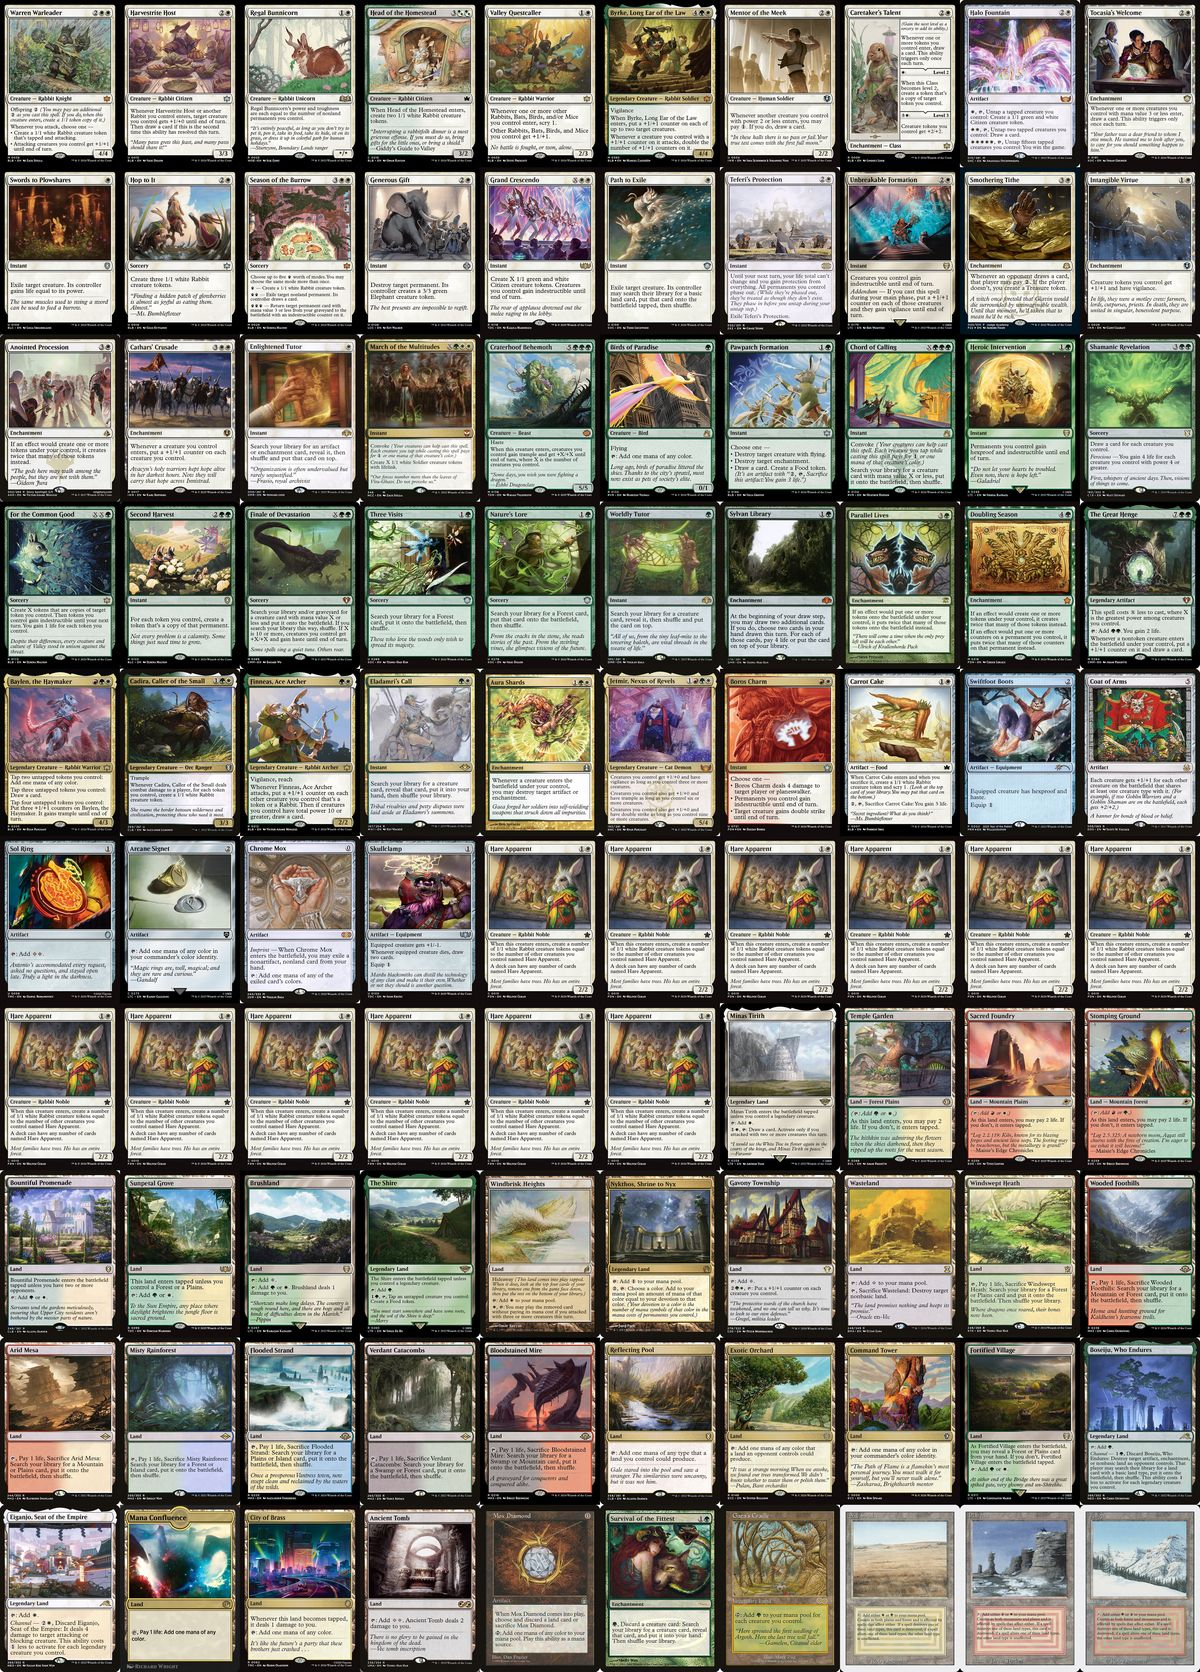
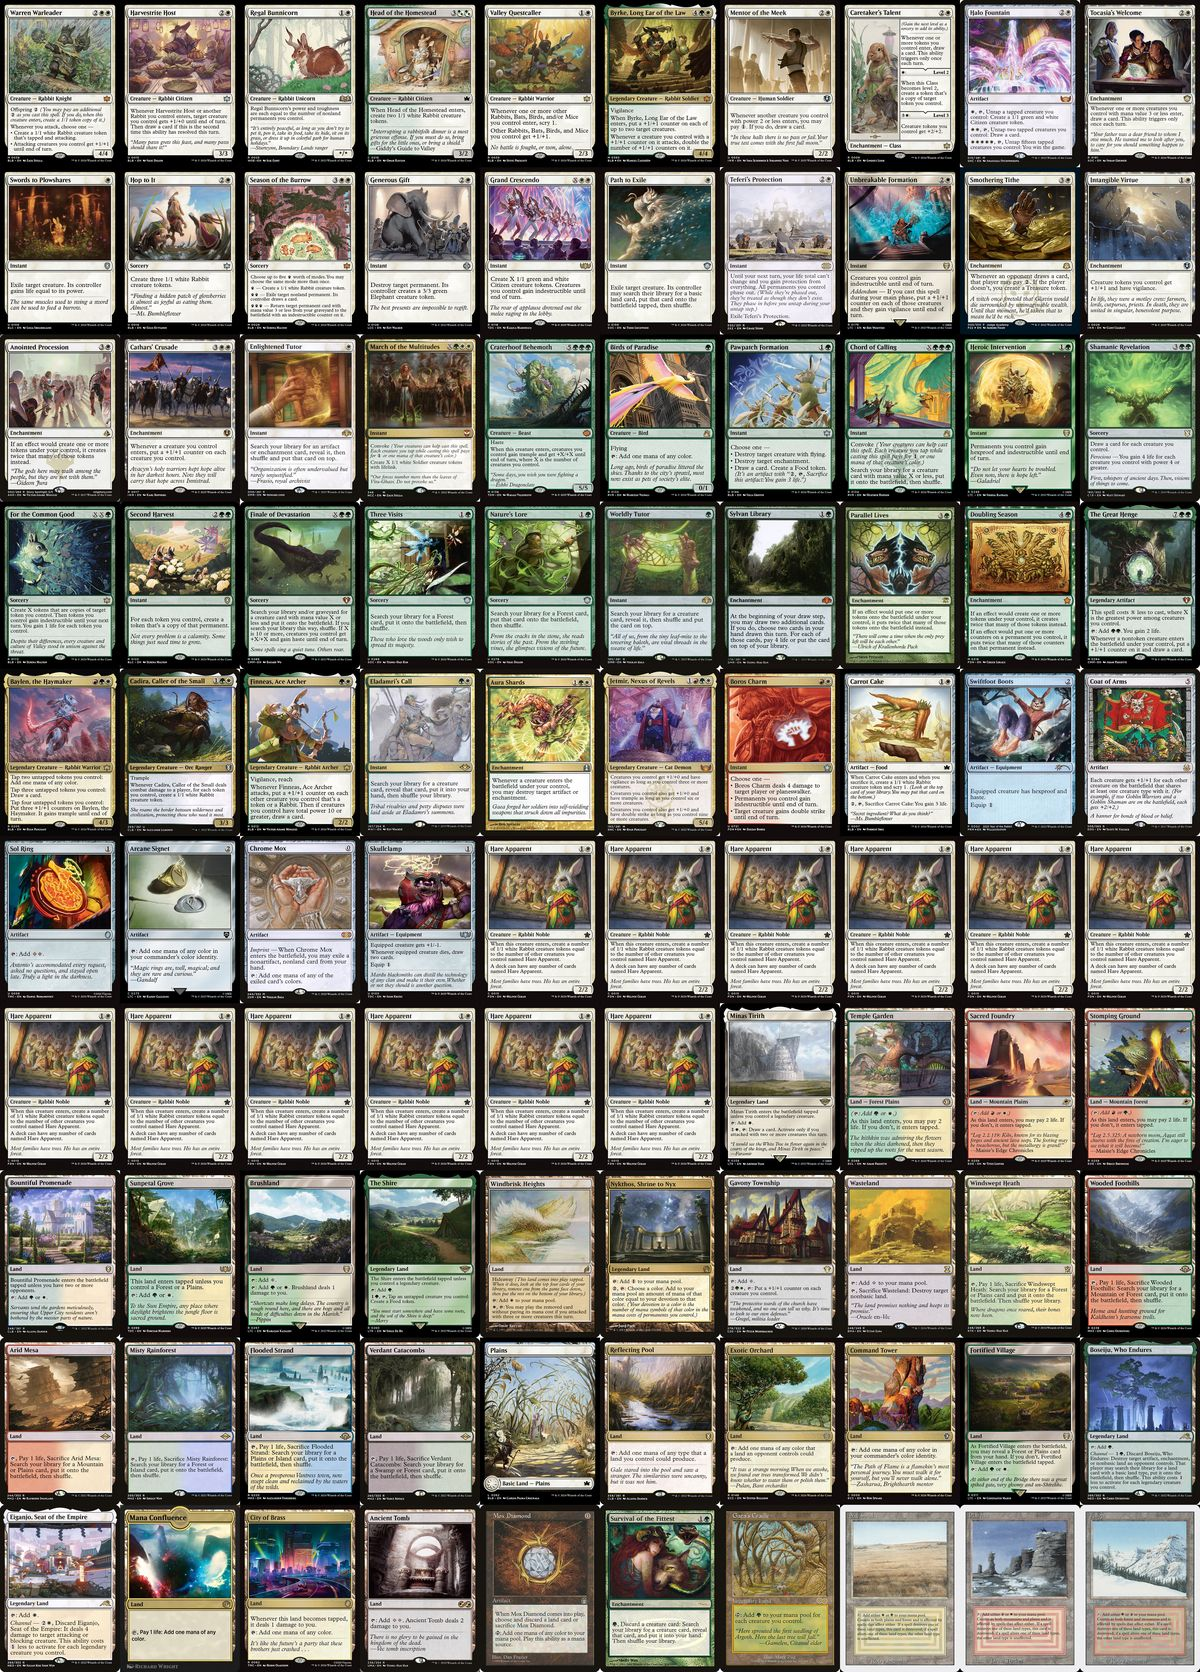
Bloodstained Mire → Plains (B4): fetchable basic for Path to Exile

Changed region(s): [[0.4008, 0.7775, 0.4933, 0.9019]]

diff --git a/scripts/generate_mosaic.py b/scripts/generate_mosaic.py
@@ -78,7 +78,7 @@ ORDERED_NAMES_B4 = [
     # Row 9: Fetches + mana-fixing lands
     "Windswept Heath", "Wooded Foothills", "Arid Mesa",
     "Misty Rainforest", "Flooded Strand",
-    "Verdant Catacombs", "Bloodstained Mire",
+    "Verdant Catacombs", "Plains",
     "Reflecting Pool", "Exotic Orchard", "Command Tower",
     # Row 10: Channel lands + five-color + reserved list / old border
     "Fortified Village", "Boseiju, Who Endures",

diff --git a/theme_analysis.md b/theme_analysis.md
@@ -120,7 +120,7 @@
 
 ---
 
-## Lands (38)
+## Lands (37)
 
 | Card | Deck | Scryfall | Rabbit? | Rabbit Art? | Party? | Theme | Justification |
 |------|------|----------|---------|-------------|--------|-------|---------------|
@@ -153,7 +153,6 @@
 | Gaea's Cradle | Both | [🔗](https://scryfall.com/card/usg/321/gaeas-cradle) | ❌ | ❌ | ✅ | 6 | The legendary party grounds. Every creature on the field adds one green mana — with 15 rabbits, this taps for 15. The cradle of the celebration. The bigger the party, the more energy it produces. |
 | Flooded Strand | B4 | [🔗](https://scryfall.com/card/mh3/220/flooded-strand) | ❌ | ❌ | ❌ | 1 | The beach where guests arrive by boat. Fetches a Plains or Island (but you have no Islands). Functional mana fixing with zero party energy. |
 | Verdant Catacombs | B4 | [🔗](https://scryfall.com/card/mh2/260/verdant-catacombs) | ❌ | ❌ | ❌ | 1 | The underground tunnel system. Fetches Swamp or Forest (you have no Swamps, but plenty of Forests). The catacombs are the backstage hallways of the venue. |
-| Bloodstained Mire | B4 | [🔗](https://scryfall.com/card/mh3/216/bloodstained-mire) | ❌ | ❌ | ❌ | 1 | The swamp nobody talks about. Fetches Swamp or Mountain — grabs Stomping Ground or Plateau in a pinch. The party's loading dock. |
 | Ancient Tomb | B4 | [🔗](https://scryfall.com/card/uma/236/ancient-tomb) | ❌ | ❌ | ❌ | 2 | The after-hours venue. Two colorless mana, two life. The tomb opens late, hits hard, and doesn't care about your theme. Pure power. |
 | Misty Rainforest | B4 | [🔗](https://scryfall.com/card/mh2/250/misty-rainforest) | ❌ | ❌ | ❌ | 1 | The foggy trail to the venue. Fetches Forest or Island. Grabs Savannah, Taiga, or Stomping Ground. Atmospheric, but not festive. |
 | Jetmir's Garden | B3 | [🔗](https://scryfall.com/card/snc/250/jetmirs-garden) | ❌ | ❌ | ✅ | 7 | Jetmir's personal garden — the VIP section's actual venue. A triome that taps for all three of Baylen's colors and has cycling when you're flooded. The Garden is where the Revels happen. |
@@ -161,7 +160,7 @@
 | Wooded Bastion | B3 | [🔗](https://scryfall.com/card/exp/30/wooded-bastion) | ❌ | ❌ | ❌ | 2 | The old bastion hidden in the woods. Filters colorless into green or white pairs. A defensive outpost with no party energy — just utility. |
 | Inspiring Vantage | B3 | [🔗](https://scryfall.com/card/kld/246/inspiring-vantage) | ❌ | ❌ | ✅ | 3 | The balcony with a view of the celebration. Red-white fast land — untapped in the first three turns when the party's still getting started. The vantage point where you plan the evening. |
 | Forest | B3 | — | ❌ | ❌ | ❌ | 2 | The grove where the party supplies grow. A basic land — humble, fetchable, and always reliable. |
-| Plains | B3 | — | ❌ | ❌ | ❌ | 2 | The open field where the tent goes up. A basic land — the blank canvas for the celebration. |
+| Plains | Both | — | ❌ | ❌ | ❌ | 2 | The open field where the tent goes up. A basic land — the blank canvas for the celebration. |
 
 ---
 
@@ -175,16 +174,16 @@
 | Sorceries | 9 | 5.7 | 0 | 3 | 6 | 7 | 1 | 1 |
 | Artifacts | 12 | 4.4 | 0 | 2 | 9 | 8 | 2 | 2 |
 | Enchantments | 11 | 4.8 | 0 | 1 | 8 | 9 | 0 | 2 |
-| Lands | 38 | 3.4 | 0 | 0 | 18 | 27 | 6 | 5 |
-| **Total** | **101** | **4.8** | **10** | **20** | **66** | **77** | **12** | **12** |
+| Lands | 37 | 3.5 | 0 | 0 | 18 | 28 | 5 | 4 |
+| **Total** | **100** | **4.8** | **10** | **20** | **66** | **78** | **11** | **11** |
 
 ### Key Takeaways
 
-- **10 of 101 unique cards are Rabbits** by creature type — the tribal core is tight and focused.
+- **10 of 100 unique cards are Rabbits** by creature type — the tribal core is tight and focused.
 - **20 cards feature rabbit art** — almost all Bloomburrow (BLB) originals.
-- **66 of 101 cards have a party connection** — over half the deck tells the "Somebunny is Having a Party" story through name, flavor, or function.
-- **77 cards are shared** between B3 and B4 — the core identity is the same across both brackets.
-- **12 cards are unique to each variant** — B4 gains power (Mox Diamond, Teferi's Protection, Survival of the Fittest) while B3 keeps budget-friendly alternatives (Talismans, Flawless Maneuver, Druid of the Spade).
+- **66 of 100 cards have a party connection** — over half the deck tells the "Somebunny is Having a Party" story through name, flavor, or function.
+- **78 cards are shared** between B3 and B4 — the core identity is the same across both brackets.
+- **11 cards are unique to each variant** — B4 gains power (Mox Diamond, Teferi's Protection, Survival of the Fittest) while B3 keeps budget-friendly alternatives (Talismans, Flawless Maneuver, Druid of the Spade).
 - **Highest theme density**: Creatures (avg 7.9) and Sorceries (avg 5.7) — the rabbits and their party activities carry the theme.
 - **Lowest theme density**: Lands (avg 3.4) — necessary mana infrastructure, but The Shire, Windbrisk Heights, Minas Tirith, Nykthos, and Fortified Village are standout thematic lands.
 - **Pure power cards with minimal theme**: Sol Ring, Chrome Mox, Skullclamp, Sylvan Library, Survival of the Fittest, Enlightened Tutor — these are here because they win games, not because they're invited to the party.
